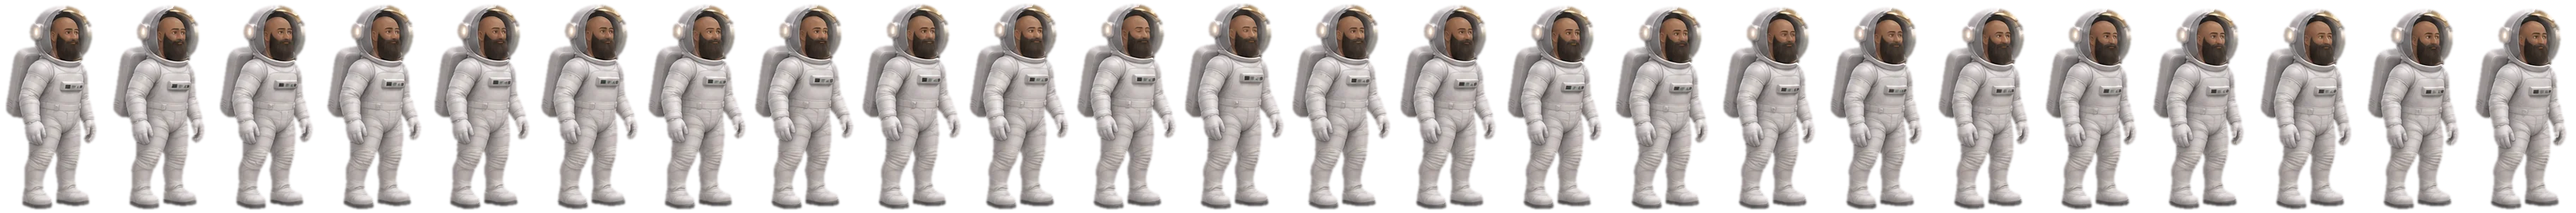
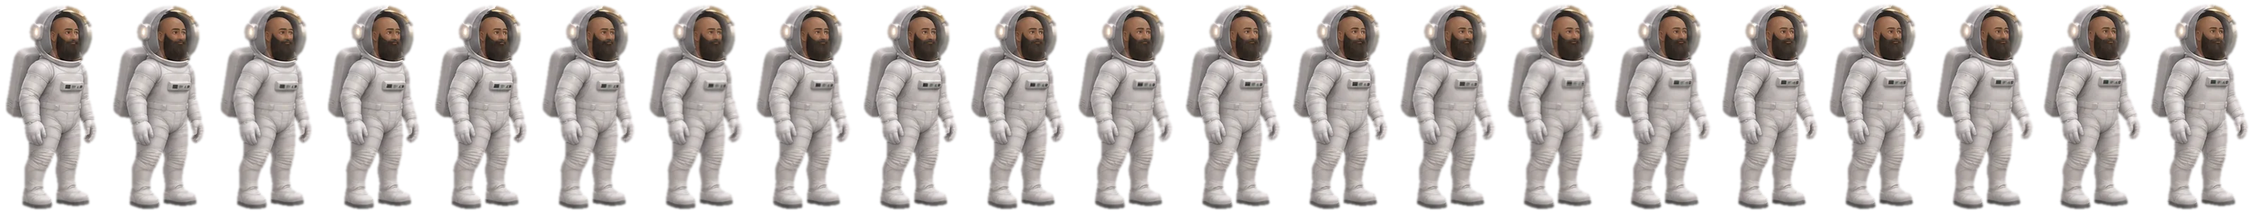
Refaey: smoother float (one held pose, no pose swaps) and a subtler idle breath (calm frames with in-betweens, 4 s loop)

diff --git a/src/screens/home/refaey/RefaeyActor.tsx b/src/screens/home/refaey/RefaeyActor.tsx
@@ -6,7 +6,7 @@ import walkStrip from './art/walk-strip.webp';
 import hopStrip from './art/hop-strip.webp';
 import { refaeyActor } from './actorBus';
 import { QUIPS } from './copy';
-import { DRIFT_IN_MS, driftInProgress, floatCycle, floatDrift, FLOAT_FRAME_MS, frameAt, hopLiftPx, hopTimeline, idleCycle, IDLE_FRAME_MS, PUSH_MS, pushOffset, WALK_FRAME_MS, WALK_IN_MAX_S, type Anim } from './spriteMath';
+import { DRIFT_IN_MS, driftInProgress, floatDrift, FLOAT_FRAME, frameAt, hopLiftPx, hopTimeline, idleCycle, IDLE_FRAME_MS, PUSH_MS, pushOffset, WALK_FRAME_MS, WALK_IN_MAX_S, type Anim } from './spriteMath';
 import { useRefaey } from './store';
 import s from './refaey.module.css';
 
@@ -118,14 +118,14 @@ export function RefaeyActor({
     el.style.transform = `translate(${shiftPx}px, ${-liftPx}px)${rotDeg ? ` rotate(${rotDeg}deg)` : ''}`;
   }, []);
 
-  const restFrame = floating ? () => draw('hop', floatCycle()[0]) : () => draw('idle', 0);
+  const restFrame = floating ? () => draw('hop', FLOAT_FRAME) : () => draw('idle', 0);
 
   // Always show something sensible, including before the loop starts and when motion is off: the first frame of his pose, still.
   useEffect(() => {
     const b = box.current;
     if (!b) return;
     // about to enter: start beyond the left edge, so there is no flash of him standing in place first
-    const start = () => (willEnter ? draw(floating ? 'hop' : 'walk', floating ? floatCycle()[0] : 0, 0, -(b.getBoundingClientRect().right + 12)) : restFrame());
+    const start = () => (willEnter ? draw(floating ? 'hop' : 'walk', floating ? FLOAT_FRAME : 0, 0, -(b.getBoundingClientRect().right + 12)) : restFrame());
     start();
     if (!willEnter) entered.current?.(); // (the parent's handler is idempotent)
     const ro = new ResizeObserver(start);
@@ -144,7 +144,6 @@ export function RefaeyActor({
     let driftT = 0; // drift time only counts while not paused
     let last = t0;
     const cycle = idleCycle(SPEC.idle.count);
-    const fCycle = floatCycle();
     const hop = hopTimeline(SPEC.hop.count);
     const distance = () => b.getBoundingClientRect().right + 12;
     let dist = distance();
@@ -156,7 +155,7 @@ export function RefaeyActor({
       t0 = now;
       lastKey = '';
     };
-    const floatFrame = () => fCycle[Math.floor(driftT / FLOAT_FRAME_MS) % fCycle.length];
+    const floatFrame = () => FLOAT_FRAME;
     const tick = (now: number) => {
       const t = now - t0;
       if (!paused.current) driftT += now - last;

diff --git a/src/screens/home/refaey/spriteMath.ts b/src/screens/home/refaey/spriteMath.ts
@@ -23,12 +23,12 @@ export function heightAt(t: number, h = HOP_HEIGHT_M, g = LUNAR_G) {
 
 export type Anim = 'idle' | 'walk' | 'hop';
 
-/** Idle: gentle, 12 frames per second over the 24-frame idle sheet, ping-pong so the loop has no seam. Frame indices of one cycle. */
+/** Idle: a subtle breath (the calm start of the idle sheet with in-betweens, 21 frames) at 10 frames per second, ping-pong so the loop has no seam (4 s). Frame indices of one cycle. */
 export function idleCycle(count: number): number[] {
   const up = Array.from({ length: count }, (_, i) => i);
   return [...up, ...up.slice(1, -1).reverse()];
 }
-export const IDLE_FRAME_MS = 1000 / 12;
+export const IDLE_FRAME_MS = 1000 / 10;
 /** Walk (the running sheet, 24 frames): 24 frames per second, one stride cycle a second. */
 export const WALK_FRAME_MS = 1000 / 24;
 export const WALK_IN_MAX_S = 1.2;
@@ -65,16 +65,14 @@ export function hopLiftPx(tMs: number, spriteHeightPx: number, count: number) {
 }
 
 /**
- * Float: the airborne frames of the hop sheet with relaxed limbs (arms out, knees bent). Their helmet tops sit within 3 px
- * of each other (29, 31 and 32 px in a 451 px frame), so the loop does not pump; the weightless feel comes from the drift.
+ * Float: one relaxed airborne pose of the hop sheet, held. Swapping between airborne poses read as stepping (they differ
+ * a lot in the arms and legs, so in-between cross-fades show double limbs); the weightless feel comes from the drift,
+ * which is continuous.
  */
-export const FLOAT_FRAMES = [3, 7, 8];
-export const FLOAT_FRAME_MS = 250; // about 4 frames per second
+export const FLOAT_FRAME = 3;
 export const FLOAT_DRIFT_PX = 4;
 export const FLOAT_TILT_DEG = 1.5;
 export const FLOAT_PERIOD_MS = 4000;
-/** Ping-pong order over the float frames (no seam). */
-export const floatCycle = () => idleCycle(FLOAT_FRAMES.length).map((i) => FLOAT_FRAMES[i]);
 /** The slow, eased bob and tilt of a floating figure `tMs` into the loop: translateY ±4 px and rotate ±1.5° over about 4 s. */
 export function floatDrift(tMs: number) {
   const a = (2 * Math.PI * tMs) / FLOAT_PERIOD_MS;

diff --git a/src/screens/home/refaey/art/tools/make_sprites.py b/src/screens/home/refaey/art/tools/make_sprites.py
@@ -6,7 +6,7 @@ Refaey sprite pipeline: three 3D-render contact sheets -> clean animation strips
 
 Input  (art/source/):  idle-sheet.png (24 frames, 6x4), walk-sheet.png (24, 6x4: running), hop-sheet.png (12, 3x4). RGBA, cut out
                        already but WhatsApp-compressed: soft low-alpha white speckle around the suit and colour fringing.
-Output (art/):         idle-strip.webp, walk-strip.webp, hop-strip.webp, bust-80.webp, bust-160.webp, sprites.json,
+Output (art/):         idle-strip.webp (subtle, smoothed), walk-strip.webp, hop-strip.webp, bust-80.webp, bust-160.webp, sprites.json,
                        tools/last-run.json (measurements). Contact sheets go to --preview (outside the repo).
 
 Steps per sheet
@@ -34,6 +34,64 @@ DISPLAY_H = 440                        # CSS px: the tallest the sprite is shown
 FEATHER_SIGMA = 1.3                    # edge softness (px): a ~2 px anti-aliased rim, so the outermost pixels are partly transparent
 WEBP_QUALITY = 85
 MAX_STRIP_KB = 350
+# Smoothing (Pink): in-between frames are cross-fades of neighbouring frames (premultiplied alpha), so poses that differ
+# only a little flow instead of jumping.
+IDLE_KEYS = [0, 1, 2, 3, 4, 5]          # the calm start of the idle sheet: a subtle breath (the full sheet sways ~7 px)
+IDLE_STEPS = 4                         # frames per idle key (1 key + 3 in-betweens)
+
+
+def blend(a, b, w):
+    """Cross-fade two RGBA frames (same size), premultiplied so the edges do not darken or glow."""
+    a = a.astype(np.float32); b = b.astype(np.float32)
+    aa, ba = a[..., 3:] / 255.0, b[..., 3:] / 255.0
+    al = aa * (1 - w) + ba * w
+    rgb = (a[..., :3] * aa * (1 - w) + b[..., :3] * ba * w) / np.maximum(al, 1e-6)
+    return np.dstack([np.clip(rgb, 0, 255), al * 255]).astype(np.uint8)
+
+
+def best_shift(a, b, r=14):
+    """Whole-pixel (dx, dy) that moves b onto a best (alpha masks), so a cross-fade blends limbs, not the whole body."""
+    A = a[..., 3].astype(np.float32) / 255
+    B = b[..., 3].astype(np.float32) / 255
+    best, arg = None, (0, 0)
+    for dy in range(-r, r + 1, 2):
+        for dx in range(-r, r + 1, 2):
+            d = np.abs(A - np.roll(np.roll(B, dy, 0), dx, 1)).sum()
+            if best is None or d < best:
+                best, arg = d, (dx, dy)
+    bx, by = arg
+    for dy in range(by - 1, by + 2):
+        for dx in range(bx - 1, bx + 2):
+            d = np.abs(A - np.roll(np.roll(B, dy, 0), dx, 1)).sum()
+            if d < best:
+                best, arg = d, (dx, dy)
+    return arg
+
+
+def shifted(f, dx, dy):
+    """Sub-pixel shift (bilinear), transparent outside."""
+    return ndi.shift(f.astype(np.float32), (dy, dx, 0), order=1, mode='constant', cval=0).clip(0, 255).astype(np.uint8)
+
+
+def tween(frames, keys, steps, loop):
+    """Frames through `keys` with `steps - 1` eased in-betweens per step (to the next key; wrapping when `loop`). Each
+    in-between slides both poses part of the way toward each other (aligned) and cross-fades them: a cheap morph."""
+    out = []
+    n = len(keys) if loop else len(keys) - 1
+    for k in range(n):
+        a, b = frames[keys[k]], frames[keys[(k + 1) % len(keys)]]
+        dx, dy = best_shift(a, b)  # b moved by (dx, dy) lies on a
+        for j in range(steps):
+            t = j / steps
+            w = t * t * (3 - 2 * t)
+            if j == 0:
+                out.append(a)
+                continue
+            # both meet at the in-between position: a moves toward b's place, b starts from a's
+            out.append(blend(shifted(a, -dx * w, -dy * w), shifted(b, dx * (1 - w), dy * (1 - w)), w))
+    if not loop:
+        out.append(frames[keys[-1]])
+    return out
 
 
 def lum(rgb):  # relative luminance of sRGB 0..255 (approx, gamma ignored: a conservative proxy)
@@ -177,6 +235,11 @@ def main():
             y0 = H - f.shape[0] - 4          # feet on the baseline
             cv[y0:y0 + f.shape[0], x0:x0 + f.shape[1]] = f
             canvas.append(cv)
+        # smoothing: the idle strip is the calm start of the sheet with in-betweens (its neighbouring frames differ so little
+        # that a cross-fade reads as motion; the airborne hop poses differ too much, so floating holds one pose instead)
+        if name == 'idle':
+            contact['idle-raw'] = canvas
+            canvas = tween(canvas, IDLE_KEYS, IDLE_STEPS, loop=False)
         # measurements
         hl = [halo(c) for c in canvas]
         literal = float(np.mean([h[0] for h in hl]))
